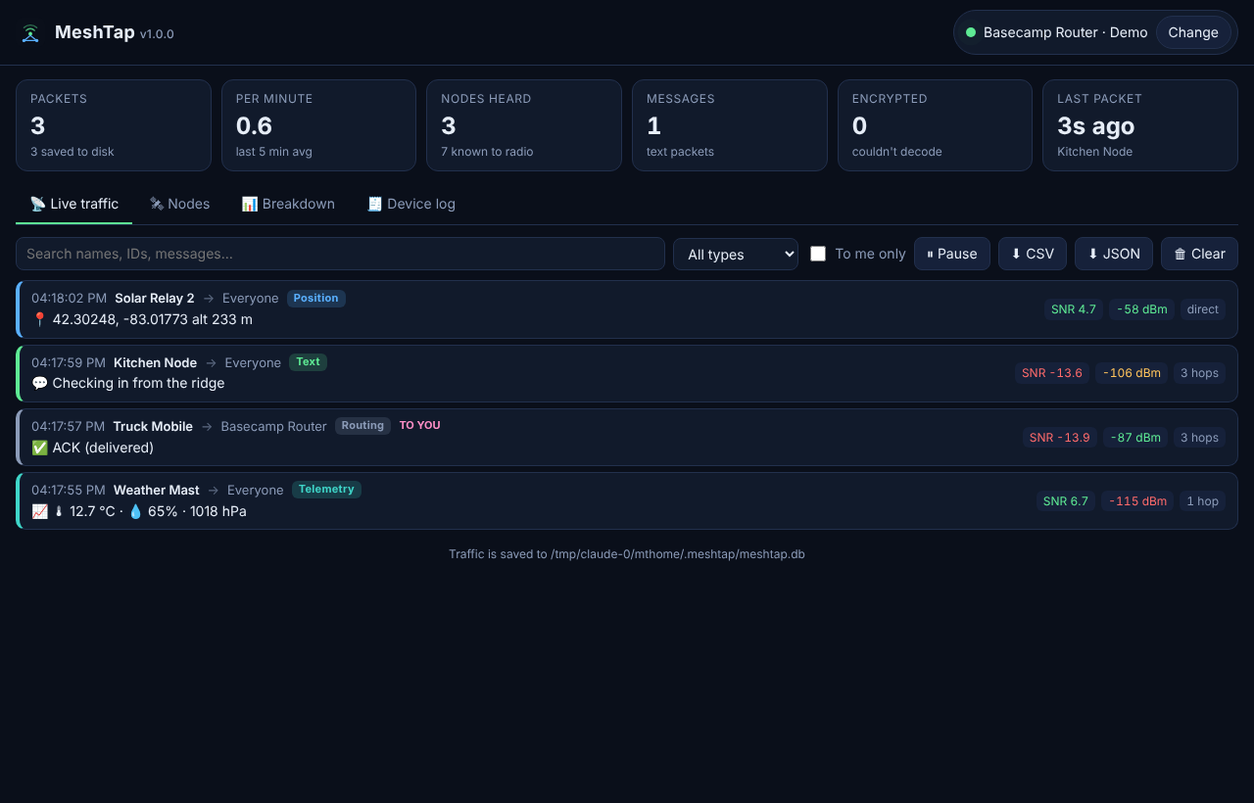
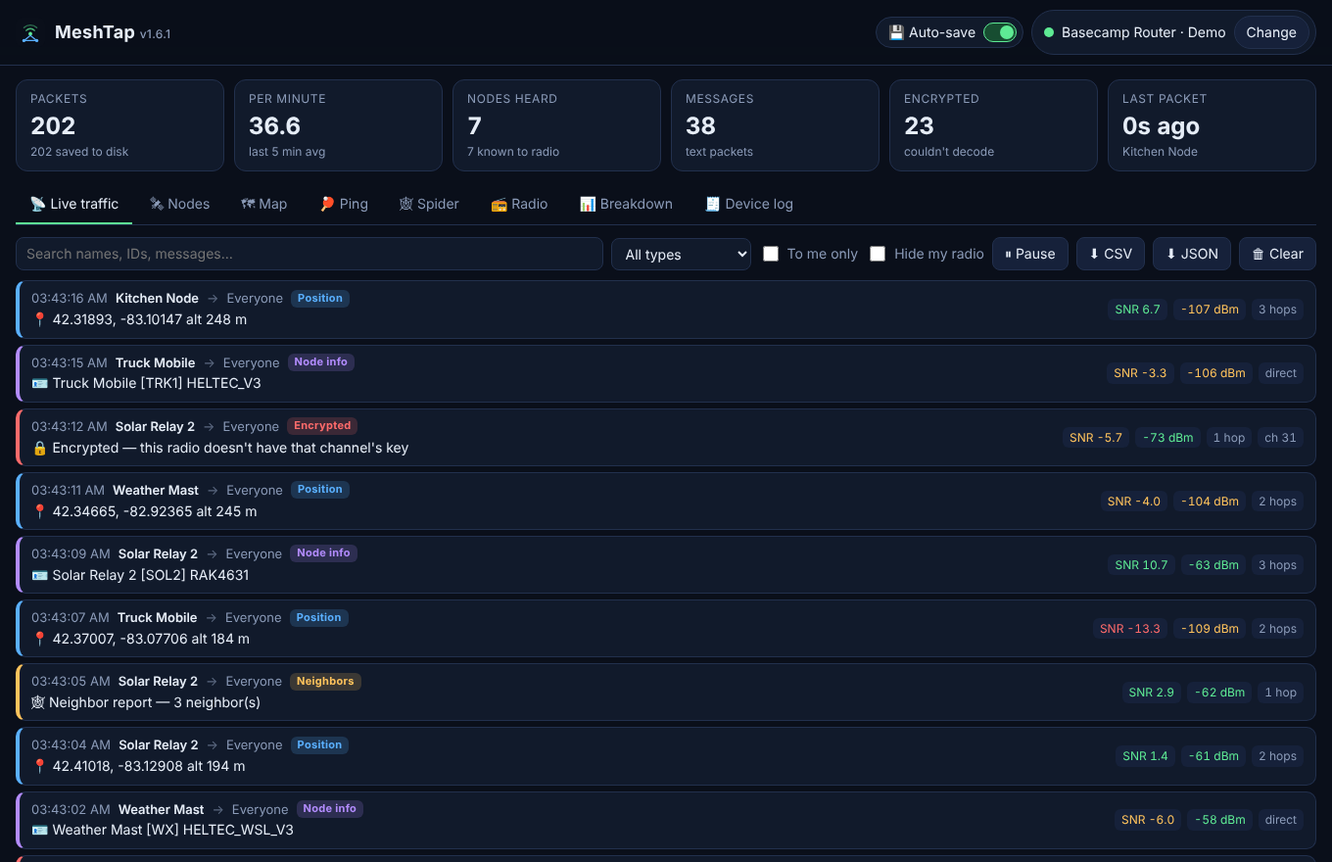
MeshTap 1.6.1: save config, factory reset, restore saved configs; screenshots
- Radio tab: Save current config (named, kept on this computer), saved-config list
  with restore, factory reset (settings or full wipe) with a full backup first
- Restoring a full backup onto the same radio can bring back its identity
- Screenshots of every tab in docs/screenshots and a gallery in the README
- Goals start empty (add your own places)

Claude-Session: https://claude.ai/code/session_013eymtVxTHQ6z8gR1U8tcLY

diff --git a/web/index.html b/web/index.html
@@ -355,7 +355,7 @@ td.det{white-space:normal;min-width:240px;color:var(--dim);font-size:12.5px}
         <div class="panel" style="margin-bottom:12px"><h3>Your range</h3><div id="spRange"></div></div>
         <div class="panel" style="margin-bottom:12px"><h3>Goals</h3><div id="spGoals"></div>
           <div style="display:flex;gap:6px;margin-top:8px;flex-wrap:wrap">
-            <input id="gName" placeholder="Place (e.g. Ann Arbor, MI)" style="flex:1 1 140px;background:var(--panel2);border:1px solid var(--line);border-radius:8px;padding:6px 8px">
+            <input id="gName" placeholder="Place you want to reach" style="flex:1 1 140px;background:var(--panel2);border:1px solid var(--line);border-radius:8px;padding:6px 8px">
             <input id="gLL" placeholder="lat, lon" style="flex:1 1 110px;background:var(--panel2);border:1px solid var(--line);border-radius:8px;padding:6px 8px">
             <button class="btn" id="gAdd">＋ Add</button></div>
           <div class="note" style="margin:6px 0 0">Tip: right-click a spot in Google Maps to copy its lat, lon.</div></div>
@@ -447,7 +447,7 @@ if (!window.L) {
 }
 </script>
 <script>
-const PAGE_VERSION = '1.6.0';
+const PAGE_VERSION = '1.6.1';
 const S = {packets: [], byK: new Map(), nodes: [], status: {}, stats: {}, paused: false, pending: 0,
            tab: 'feed', mode: 'serial', sort: {key: 'last', dir: -1}, logs: []};
 const $ = s => document.querySelector(s);
@@ -924,7 +924,7 @@ function renderSpider() {
     && (!recent || (n.last && now - n.last < 86400) || (n.confirmed && now - n.confirmed < 86400)));
   const byId = Object.fromEntries(d.nodes.map(n => [n.id, n]));
   const ringOf = {}; nodes.forEach(n => ringOf[n.id] = spRing(n));
-  const maxRing = 7, C = 500, R0 = 62, step = (C - 70 - R0) / (maxRing + 1);   // ring k radius = R0 + k*step; unknown = last
+  const maxRing = 7, C = 500, R0 = 92, step = (C - 70 - R0) / (maxRing + 1);   // ring k radius = R0 + k*step; unknown = last
   const rad = k => R0 + (k == null ? maxRing + 1 : k) * step;
   // neighbours from links, for placing nodes near whoever relays to them
   const adj = {};
@@ -1215,7 +1215,14 @@ function renderRadio() {
   const md = i.metadata || {}, lora = (i.config || {}).lora || {}, dev = (i.config || {}).device || {};
   const card = (k, v) => `<div class="card" style="padding:8px 12px"><div class="k">${k}</div><div class="v" style="font-size:16px">${esc(v ?? '—')}</div></div>`;
   top.innerHTML = `<div class="rinfo">${card('Radio', (i.owner.longName || '?') + ' [' + (i.owner.shortName || '') + ']')}${card('Hardware', md.hw_model || i.owner.hwModel)}
-    ${card('Firmware', md.firmware_version)}${card('Role', dev.role)}${card('Region · preset', (lora.region || '?') + ' · ' + (lora.modem_preset || '?'))}${card('Hop limit', lora.hop_limit)}</div>`;
+    ${card('Firmware', md.firmware_version)}${card('Role', dev.role)}${card('Region · preset', (lora.region || '?') + ' · ' + (lora.modem_preset || '?'))}${card('Hop limit', lora.hop_limit)}</div>
+    <div style="display:flex;gap:8px;justify-content:flex-end;margin:-4px 0 12px;align-items:center"><span class="note" id="qsMsg" style="margin:0"></span>
+      <button class="btn primary" id="qSave">💾 Save current config</button></div>`;
+  $('#qSave').onclick = async () => {
+    $('#qSave').disabled = true; const r = await pingCall('/api/radio/save', {label: 'saved'});
+    $('#qsMsg').innerHTML = r.ok ? `✅ ${esc(r.msg)}` : `<span style="color:var(--red)">⚠ ${esc(r.msg)}</span>`; $('#qSave').disabled = false;
+    if (r.ok) { const k = await (await fetch('/api/radio')).json(); R.info.backups = k.backups; if (R.page === 'clone') renderRadio(); }
+  };
   radioNav();
   const p = R.page;
   if (p === 'owner') return renderOwner(body);
@@ -1377,37 +1384,85 @@ function renderClone(body) {
     <div style="display:flex;gap:8px;flex-wrap:wrap">
       <a class="btn primary" href="/api/radio/backup.json">⬇ Download clone file</a>
       <a class="btn" href="/api/radio/fullbackup.json" onclick="return confirm('A FULL backup includes this radio\'s private key — its identity. Keep the file private, and only restore it to this same radio. Continue?')">⬇ Full backup (with private key)</a></div>
+    <h3>Save current config</h3>
+    <div style="display:flex;gap:8px;flex-wrap:wrap;align-items:center">
+      <input id="sLabel" placeholder="Name this save (e.g. before antenna test)" style="flex:1 1 240px;background:var(--panel2);border:1px solid var(--line);border-radius:8px;padding:7px 9px">
+      <label class="note" style="margin:0;display:flex;gap:6px;align-items:center"><input type="checkbox" id="sFull"> include private key</label>
+      <button class="btn primary" id="sSave">💾 Save</button></div>
+    <div class="note" id="sMsg">Kept in your .meshtap\\backups folder on this computer. Restore it below any time.</div>
     <h3>Copy a setup onto this radio</h3>
     <div class="note" style="margin-top:0">Pick a clone file (from this or another radio). You'll see what would change before anything is written. MeshTap never copies another radio's private key, and saves a backup of this radio first.</div>
     <input type="file" id="cFile" accept=".json,application/json">
     <div id="cPrev"></div>
-    <h3>Automatic backups</h3>
-    <div class="note" style="margin-top:0">Saved on this computer before every change MeshTap makes to the radio (last 50).</div>
-    ${bk.length ? bk.slice(0, 15).map(f => `<div style="display:flex;justify-content:space-between;font-size:13px;padding:4px 0;border-bottom:1px solid var(--line)"><span>${esc(f.name)}</span><a href="/api/radio/backups/get?name=${encodeURIComponent(f.name)}" style="color:var(--blue)">download</a></div>`).join('') : '<div class="note">None yet.</div>'}
+    <h3>Saved configs</h3>
+    <div class="note" style="margin-top:0">Your saves, plus the automatic ones MeshTap makes before every change (last 50 automatic kept).</div>
+    ${bk.length ? bk.slice(0, 30).map(f => `<div style="display:flex;gap:12px;align-items:center;font-size:13px;padding:5px 0;border-bottom:1px solid var(--line)">
+      <span style="flex:1;word-break:break-all">${f.name.includes('-before-') ? '🕘' : '💾'} ${esc(f.name.replace(/\.json$/, ''))}${f.full ? ' <span class="chip ok">with key</span>' : ''}</span>
+      <a href="#" data-restore="${esc(f.name)}" style="color:var(--green)">restore…</a><a href="/api/radio/backups/get?name=${encodeURIComponent(f.name)}" style="color:var(--blue)">download</a></div>`).join('') : '<div class="note">None yet.</div>'}
+    <h3 style="color:var(--red)">Factory reset</h3>
+    <div class="panel" style="border-color:#5a2630;background:#1a1016">
+      <div class="note" style="margin-top:0"><b>Reset settings</b> puts every setting and channel back to factory defaults; the radio keeps its identity. <b>Full wipe</b> also erases its identity and saved nodes, so it comes back as a brand-new radio. Either way, MeshTap first saves a <b>full backup</b> (with the private key) on this computer so you can put everything back.</div>
+      <div style="display:flex;gap:8px;flex-wrap:wrap;align-items:center">
+        <input id="resetWord" placeholder="Type RESET" style="width:130px;background:var(--panel2);border:1px solid var(--line);border-radius:8px;padding:7px 9px">
+        <button class="btn danger" data-reset="settings">↺ Reset settings to factory</button>
+        <button class="btn danger" data-reset="full" style="border-color:#7a2d36">⚠ Full wipe</button></div>
+      <div class="note" id="resetMsg"></div></div>
     <h3>About firmware</h3>
     <div class="note" style="margin-top:0">The clone file copies the <i>setup</i>, which is what makes two radios behave the same. The firmware itself is installed with the official flasher (Name & info → Update firmware); load the same firmware version on both radios, then apply the clone file.</div>`;
   $('#cFile').onchange = async e => {
     const f = e.target.files[0]; if (!f) return;
     let b; try { b = JSON.parse(await f.text()); } catch (er) { $('#cPrev').innerHTML = '<div class="err">That file isn\'t valid JSON.</div>'; return; }
-    if (!b.meshtap_backup) { $('#cPrev').innerHTML = '<div class="err">That isn\'t a MeshTap clone file.</div>'; return; }
-    R.restore = b; const d = diffBackup(b), groups = {config: [], modules: [], channels: [], owner: []}; d.forEach(([g, s]) => groups[g].push(s));
+    previewRestore(b, null);
+  };
+  body.querySelectorAll('[data-restore]').forEach(a => a.onclick = async e => {
+    e.preventDefault(); const b = await (await fetch('/api/radio/backups/peek?name=' + encodeURIComponent(a.dataset.restore))).json();
+    previewRestore(b, a.dataset.restore); $('#cPrev').scrollIntoView({behavior: 'smooth', block: 'center'});
+  });
+  $('#sSave').onclick = async () => {
+    const r = await pingCall('/api/radio/save', {label: $('#sLabel').value || 'saved', full: $('#sFull').checked});
+    R.flash = r.ok ? `✅ ${esc(r.msg)}` : `<span style="color:var(--red)">⚠ ${esc(r.msg)}</span>`; $('#sMsg').innerHTML = R.flash;
+    if (r.ok) { const k = await (await fetch('/api/radio')).json(); R.info.backups = k.backups; renderRadio(); }
+  };
+  wireReset(body);
+  if (R.flash) { $('#sMsg').innerHTML = R.flash; R.flash = ''; }
+}
+function previewRestore(b, saved) {
+  {
+    if (!b || !b.meshtap_backup) { $('#cPrev').innerHTML = '<div class="err">That isn\'t a MeshTap clone file.</div>'; return; }
+    R.restore = b; R.restoreSaved = saved; const d = diffBackup(b), groups = {config: [], modules: [], channels: [], owner: []}; d.forEach(([g, s]) => groups[g].push(s));
+    const sameRadio = b.node_id && b.node_id === (R.info.owner.id || S.status.my_id);
+    const canIdent = b.kind === 'full' && sameRadio;
     const box = (k, label, on) => `<label style="display:flex;gap:8px;align-items:flex-start;margin:6px 0"><input type="checkbox" id="cp_${k}" ${on ? 'checked' : ''} ${groups[k].length ? '' : 'disabled'}> <span><b>${label}</b> <span style="color:var(--dim)">${groups[k].length ? groups[k].map(human).join(', ') : 'same as this radio'}</span></span></label>`;
     $('#cPrev').innerHTML = `<div class="panel" style="margin-top:10px;background:var(--panel2)">
       <div><b>${esc((b.owner || {}).longName || '?')}</b> · ${esc(b.hardware || '?')} · firmware ${esc(b.firmware || '?')} · saved ${esc(b.created || '?')}${b.kind === 'full' ? ' · <span style="color:var(--amber)">full backup</span>' : ''}</div>
       ${b.firmware && (R.info.metadata || {}).firmware_version && b.firmware !== R.info.metadata.firmware_version ? `<div class="note" style="color:var(--amber)">Different firmware (this radio: ${esc(R.info.metadata.firmware_version)}). Most settings carry over; anything new or removed is skipped.</div>` : ''}
-      ${d.length ? `<div style="margin-top:8px">${box('config', 'Settings', true)}${box('modules', 'Modules', true)}${box('channels', 'Channels', true)}${box('owner', 'Name', false)}</div>
+      ${d.length || canIdent ? `<div style="margin-top:8px">${box('config', 'Settings', true)}${box('modules', 'Modules', true)}${box('channels', 'Channels', true)}${box('owner', 'Name', sameRadio)}
+        ${canIdent ? `<label style="display:flex;gap:8px;align-items:flex-start;margin:6px 0"><input type="checkbox" id="cp_identity"> <span><b>Identity (private key)</b> <span style="color:var(--dim)">Only needed after a full wipe, so other radios recognize this one again.</span></span></label>` : ''}</div>
         <div class="note">Leave <b>Name</b> off when cloning to a second radio — two radios with the same name are confusing on the mesh.</div>
         <div class="rbar" style="position:static"><span class="note" id="cMsg" style="margin:0;flex:1"></span><button class="btn primary" id="cApply">Copy onto this radio</button></div>`
         : '<div class="note">This radio already matches that file.</div>'}</div>`;
     const ap = $('#cApply'); if (!ap) return;
     ap.onclick = async () => {
-      const parts = {config: $('#cp_config').checked, modules: $('#cp_modules').checked, channels: $('#cp_channels').checked, owner: $('#cp_owner').checked};
+      const parts = {config: $('#cp_config').checked, modules: $('#cp_modules').checked, channels: $('#cp_channels').checked, owner: $('#cp_owner').checked,
+        identity: !!($('#cp_identity') && $('#cp_identity').checked)};
       if (!confirm('Copy the selected parts onto this radio? It will restart to apply them; MeshTap reconnects by itself.')) return;
       ap.disabled = true; $('#cMsg').textContent = 'Writing to the radio…';
-      const r = await pingCall('/api/radio/restore', {backup: R.restore, parts});
+      const r = await pingCall('/api/radio/restore', R.restoreSaved ? {saved: R.restoreSaved, parts} : {backup: R.restore, parts});
       $('#cMsg').innerHTML = r.ok ? `✅ ${esc(r.msg)}` : `<span style="color:var(--red)">⚠ ${esc(r.msg)}</span>`; ap.disabled = false; if (r.ok) setTimeout(loadRadio, 4000);
     };
-  };
+  }
+}
+function wireReset(body) {
+  body.querySelectorAll('[data-reset]').forEach(b => b.onclick = async () => {
+    const full = b.dataset.reset === 'full', word = $('#resetWord').value.trim().toUpperCase();
+    if (word !== 'RESET') { $('#resetMsg').innerHTML = '<span style="color:var(--red)">Type RESET in the box first.</span>'; $('#resetWord').focus(); return; }
+    if (!confirm(full ? 'FULL WIPE: erase everything on the radio, including its identity (it gets a new key, and other radios must learn it again). A full backup is saved on this computer first. Continue?'
+                      : 'Reset all settings and channels to factory defaults? The radio keeps its identity. A full backup is saved on this computer first. Continue?')) return;
+    b.disabled = true; $('#resetMsg').textContent = 'Saving a backup, then resetting…';
+    const r = await pingCall('/api/radio/factory_reset', {confirm: 'RESET', full});
+    $('#resetMsg').innerHTML = r.ok ? `✅ ${esc(r.msg)}` : `<span style="color:var(--red)">⚠ ${esc(r.msg)}</span>`; b.disabled = false; $('#resetWord').value = '';
+    if (r.ok) setTimeout(loadRadio, 8000);
+  });
 }
 $('#rNav').addEventListener('click', e => { const b = e.target.closest('[data-rp]'); if (!b) return; R.page = b.dataset.rp; renderRadio(); });
 

diff --git a/meshtap.py b/meshtap.py
@@ -30,7 +30,7 @@ import webbrowser
 from http.server import BaseHTTPRequestHandler, ThreadingHTTPServer
 from urllib.parse import parse_qs, urlparse
 
-VERSION = "1.6.0"
+VERSION = "1.6.1"
 APP_DIR = os.path.dirname(os.path.abspath(__file__))
 WEB_DIR = os.path.join(APP_DIR, "web")
 DATA_DIR = os.path.join(os.path.expanduser("~"), ".meshtap")
@@ -351,6 +351,8 @@ class DemoNode:
     def reboot(self, secs=10): pass
     def beginSettingsTransaction(self): pass
     def commitSettingsTransaction(self): pass
+    def factoryReset(self, full=False):
+        self.__init__()
 
 
 # ----------------------------------------------------------------- the hub
@@ -372,8 +374,7 @@ class Hub:
         self.demo_stop = None
         self.seq = 0
         self._reset_counters()
-        self.settings = {"autosave": True, "home": None,
-                         "goals": []}
+        self.settings = {"autosave": True, "home": None, "goals": []}
         try:
             with open(SETTINGS_PATH, encoding="utf-8") as fh:
                 self.settings.update(json.load(fh))
@@ -1302,6 +1303,40 @@ class Hub:
                 "owner": {k: info["owner"].get(k) for k in ("longName", "shortName", "isLicensed")}, "node_id": info["owner"].get("id") or self.my_id,
                 "config": cfg, "modules": info["modules"], "channels": info["channels"], "channel_url": info["channel_url"]}
 
+    def save_snapshot(self, label="", full=False):
+        """Save the radio's current config on this computer (and return it for download)."""
+        b = self.make_backup(full=full)
+        os.makedirs(BACKUP_DIR, exist_ok=True)
+        tag = "".join(c if c.isalnum() or c in "-_" else "-" for c in (label or "saved").strip())[:40] or "saved"
+        name = f"{time.strftime('%Y%m%d-%H%M%S')}-{(b['owner'].get('shortName') or 'radio')}-{'FULL-' if full else ''}{tag}.json"
+        name = "".join(c if c.isalnum() or c in "-_." else "_" for c in name)
+        with open(os.path.join(BACKUP_DIR, name), "w", encoding="utf-8") as fh:
+            json.dump(b, fh, indent=1)
+        self.add_log(f"[MeshTap] saved the radio's config: {name}")
+        return name, b
+
+    def load_backup(self, name):
+        path = os.path.join(BACKUP_DIR, os.path.basename(name or ""))
+        if not path.endswith(".json") or not os.path.isfile(path):
+            raise RuntimeError("That saved config wasn't found.")
+        with open(path, encoding="utf-8") as fh:
+            return json.load(fh)
+
+    def factory_reset(self, full=False):
+        """Reset the radio. A FULL backup (with its private key) is saved on this computer first."""
+        node, iface = self._radio()
+        try:
+            name, _ = self.save_snapshot("before-factory-reset", full=True)
+        except Exception as exc:
+            return False, f"Didn't reset: couldn't save a backup first ({exc})."
+        try:
+            node.factoryReset(full=bool(full))
+        except Exception as exc:
+            return False, f"Couldn't reset the radio: {exc}"
+        self.add_log(f"[MeshTap] factory reset ({'full wipe' if full else 'settings'}) sent; backup saved as {name}")
+        return True, (f"Reset sent. The radio restarts with factory settings{' and a new identity' if full else ''}; MeshTap reconnects by itself. "
+                      f"Your previous setup is saved as {name} — restore it any time from Clone & backup.")
+
     def auto_backup(self, why):
         """Before any change, keep a copy of the radio's settings (last 50 kept)."""
         try:
@@ -1311,7 +1346,7 @@ class Hub:
             name = "".join(c if c.isalnum() or c in "-_." else "_" for c in name)
             with open(os.path.join(BACKUP_DIR, name), "w", encoding="utf-8") as fh:
                 json.dump(b, fh, indent=1)
-            files = sorted(f for f in os.listdir(BACKUP_DIR) if f.endswith(".json"))
+            files = sorted(f for f in os.listdir(BACKUP_DIR) if f.endswith(".json") and "-before-" in f and "-FULL-" not in f)
             for f in files[:-50]:
                 os.remove(os.path.join(BACKUP_DIR, f))
         except Exception as exc:
@@ -1322,7 +1357,7 @@ class Hub:
             files = sorted((f for f in os.listdir(BACKUP_DIR) if f.endswith(".json")), reverse=True)
         except OSError:
             return []
-        return [{"name": f, "size": os.path.getsize(os.path.join(BACKUP_DIR, f))} for f in files[:50]]
+        return [{"name": f, "size": os.path.getsize(os.path.join(BACKUP_DIR, f)), "full": "-FULL-" in f} for f in files[:50]]
 
     def restore(self, b, parts):
         """Apply a clone file to the connected radio. Never copies another radio's private key."""
@@ -1334,13 +1369,23 @@ class Hub:
         done = []
         try:
             node.beginSettingsTransaction()
-            if parts.get("config", True):
+            ident = None
+            if parts.get("identity") and b.get("kind") == "full" and (b.get("config") or {}).get("security", {}).get("private_key"):
+                if b.get("node_id") and self.my_id and b["node_id"] != self.my_id:
+                    raise RuntimeError(f"that full backup is from {b['node_id']}, not this radio ({self.my_id}) — identity not copied")
+                import base64
+                ident = base64.b64decode(b["config"]["security"]["private_key"])
+            if parts.get("config", True) or ident:
                 for s in CONFIG_SECTIONS:
-                    if s in (b.get("config") or {}):
+                    if s in (b.get("config") or {}) and (parts.get("config", True) or s == "security"):
                         vals = dict(b["config"][s])
                         if s == "security":
                             vals.pop("private_key", None), vals.pop("public_key", None)
                         cur, new = self._build_section(node.localConfig, s, vals)
+                        if s == "security" and ident:
+                            new.private_key = ident
+                            new.public_key = b""   # the radio works its public key out from the private one
+                            done.append("identity")
                         if cur.SerializeToString() != new.SerializeToString():
                             cur.CopyFrom(new); node.writeConfig(s); done.append(s)
             if parts.get("modules", True) and getattr(node, "moduleConfig", None) is not None:
@@ -1746,6 +1791,11 @@ class Handler(BaseHTTPRequestHandler):
             name = f"{b['owner'].get('shortName') or 'radio'}-{'FULL-' if full else ''}clone-{time.strftime('%Y%m%d-%H%M')}.json"
             return self._send(200, json.dumps(b, indent=1), "application/json",
                               {"Content-Disposition": f'attachment; filename="{name}"'})
+        if url.path == "/api/radio/backups/peek":
+            try:
+                return self._send(200, HUB.load_backup((qs.get("name") or [""])[0]))
+            except Exception as exc:
+                return self._send(404, {"error": str(exc)})
         if url.path == "/api/radio/backups/get":
             name = os.path.basename((qs.get("name") or [""])[0])
             path = os.path.join(BACKUP_DIR, name)
@@ -1830,7 +1880,16 @@ class Handler(BaseHTTPRequestHandler):
                 elif url.path == "/api/radio/reboot":
                     ok, msg = HUB.reboot_radio()
                 elif url.path == "/api/radio/restore":
-                    ok, msg = HUB.restore(body.get("backup"), body.get("parts"))
+                    b = HUB.load_backup(body["saved"]) if body.get("saved") else body.get("backup")
+                    ok, msg = HUB.restore(b, body.get("parts"))
+                elif url.path == "/api/radio/save":
+                    name, _ = HUB.save_snapshot(body.get("label") or "", full=bool(body.get("full")))
+                    ok, msg = True, f"Saved as {name} (in your .meshtap\\backups folder)."
+                elif url.path == "/api/radio/factory_reset":
+                    if body.get("confirm") != "RESET":
+                        ok, msg = False, "Type RESET to confirm."
+                    else:
+                        ok, msg = HUB.factory_reset(full=bool(body.get("full")))
                 else:
                     return self._send(404, {"ok": False, "msg": "not found"})
             except Exception as exc:

diff --git a/README.md b/README.md
@@ -12,11 +12,25 @@ MeshTap connects to your radio (USB, WiFi or Bluetooth), captures every packet i
 - **Map** — every node that shares a position on one live map (dark, street or satellite), colored by how recently it was heard, with solid lines to nodes your radio hears directly and dashed lines to ones reached through relays. Click a node for signal, battery, distance and its packets. Map pictures need internet; positions come from your mesh.
 - **Ping** — prove messages really get through, in real time. Pick a node and send a **quiet ping** (waits for its delivery ACK), a **Hello** (swaps node info, so it works even if they don't know your key yet), a **traceroute** (shows the path both ways with signal per hop) or a **text ping** (shows on their screen). You see *relayed by a neighbor* and then *delivered* with the round-trip time, or exactly why it failed. Choose a hop limit, repeat every 30 s or more for a live success rate and round-trip chart, and read the **Link check**, which explains in plain words whether nodes can hear you and where messages stop. Export to CSV.
 - **Spider** — how far your messages can get, out to 7 hops. A web with your radio in the middle and a ring per hop; nodes sit in their real compass direction (north up) and lines show the radio links MeshTap has learned, colored by signal. **Spider scan** traceroutes every node (hop limit up to 7) to fill in real paths and prove which nodes hear you. **Your range** shows your direct, heard and confirmed two-way range, and **Goals** (places you'd like to reach) show how far each is and the closest node toward it — also drawn as stars on the Map.
-- **Radio** — change your radio's settings right here, like the Meshtastic web client: name, channels (keys, channel link), every settings section (LoRa, device, position, power, network, display, Bluetooth, security) and every module, with plain-English hints. **Clone & backup**: download a clone file of the whole setup and copy it onto another radio (pick settings, modules, channels, name; see what changes first). MeshTap never copies a radio's private key, and saves an automatic backup before every change. Firmware updates use the official flasher (linked).
+- **Radio** — change your radio's settings right here, like the Meshtastic web client: name, channels (keys, channel link), every settings section (LoRa, device, position, power, network, display, Bluetooth, security) and every module, with plain-English hints. **Save current config** any time, **factory reset** (settings only, or a full wipe — a full backup is saved first), and **Clone & backup**: download a clone file of the whole setup and copy it onto another radio (pick settings, modules, channels, name; see what changes first). MeshTap never copies a radio's private key, and saves an automatic backup before every change. Firmware updates use the official flasher (linked).
 - **Breakdown** — packets per minute for the last hour, traffic by type, top talkers, signal quality and how far packets travelled.
 - **Device log** — MeshTap events plus the radio's own debug lines.
 - **Search & filters**, "to me only", "hide my radio", pause, and **export to CSV / JSON**.
 - **Auto-save** switch (top right): on, every packet is saved as it arrives; off, traffic shows live but isn't kept, with a **Save now** button for what you've caught. Saved to `~/.meshtap/meshtap.db` (Windows: `C:\Users\<you>\.meshtap\`) so history survives restarts.
+
+## Screenshots
+*(Demo mode — fake nodes, no real radio.)*
+
+| | |
+|---|---|
+| **Live traffic** — every packet as it arrives<br>![Live traffic](docs/screenshots/live-traffic.png) | **Packet detail** — the full decoded packet<br>![Packet detail](docs/screenshots/packet-detail.png) |
+| **Nodes** — everyone heard, signal, battery, hops<br>![Nodes](docs/screenshots/nodes.png) | **Map** — nodes, links to your radio, your goals<br>![Map](docs/screenshots/map.png) |
+| **Ping** — round trips, success rate, Link check<br>![Ping](docs/screenshots/ping.png) | **Spider** — reach out to 7 hops, range and goals<br>![Spider](docs/screenshots/spider.png) |
+| **Radio → Settings** — every section, with hints<br>![Radio settings](docs/screenshots/radio-settings.png) | **Radio → Channels** — keys, uplink, channel link<br>![Radio channels](docs/screenshots/radio-channels.png) |
+| **Radio → Clone & backup** — save, restore, clone, factory reset<br>![Clone and backup](docs/screenshots/radio-clone.png) | **Breakdown** — traffic over time, by type, by node<br>![Breakdown](docs/screenshots/breakdown.png) |
+| **Device log** — MeshTap events and radio debug lines<br>![Device log](docs/screenshots/device-log.png) | **Connect** — USB/serial, WiFi, Bluetooth, serial text, demo<br>![Connect](docs/screenshots/connect.png) |
+
+<p align="center"><b>On a phone</b> (run with <code>--lan</code>)<br><img src="docs/screenshots/phone.png" width="300" alt="MeshTap on a phone"></p>
 
 ## Windows
 1. Install Python 3 from python.org (tick "Add to PATH").
